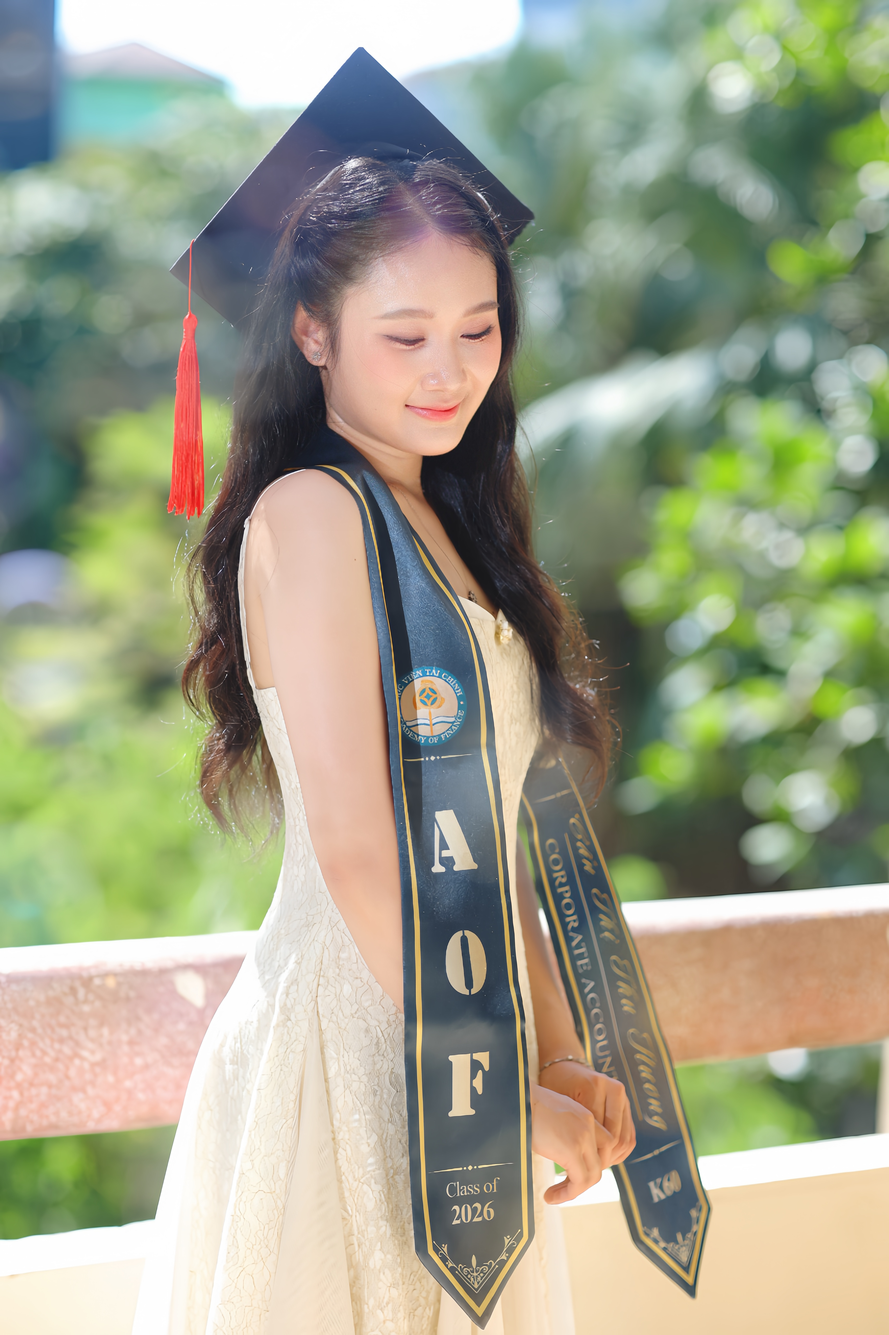
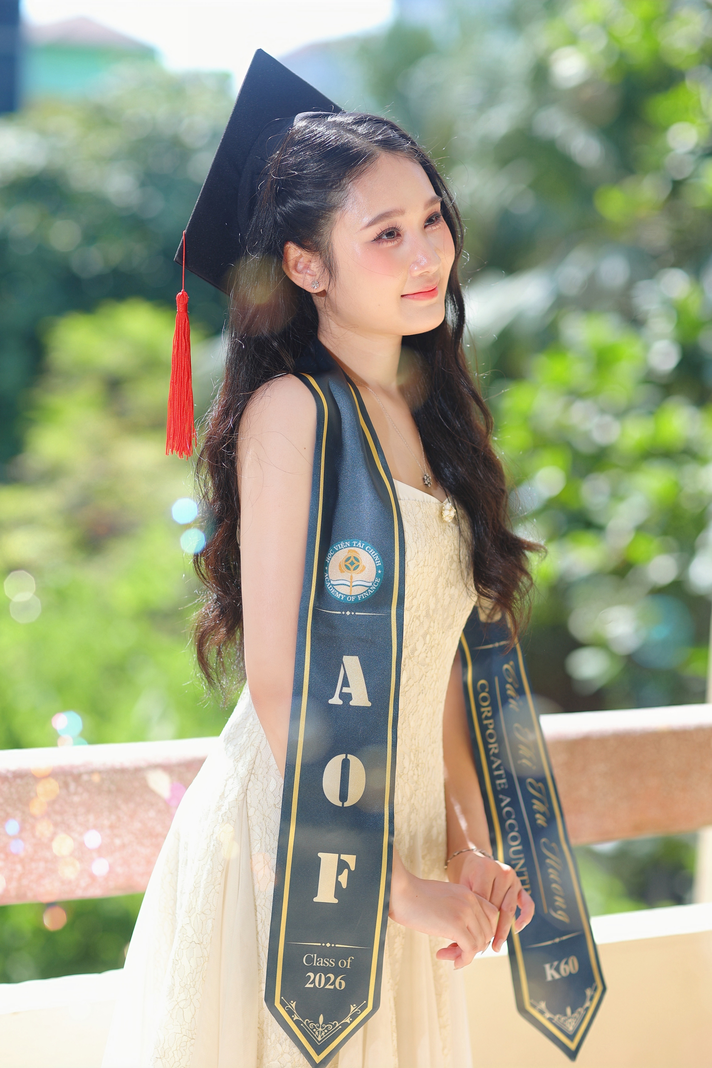
update

diff --git a/src/views/sections/InfoSection.jsx b/src/views/sections/InfoSection.jsx
@@ -122,10 +122,10 @@ const InfoSection = () => {
         />
       </div>
 
-      <div className="relative z-10 px-6 py-12">
+      <div className="relative z-10 py-12" style={{ paddingLeft: '10px', paddingRight: '10px' }}>
 
         {/* Tiêu đề section */}
-        <motion.div className="text-center mb-8" {...fadeUp(0)}>
+        <motion.div className="text-center mb-8 mt-[5px]" {...fadeUp(0)}>
           <p
             className="text-xs font-semibold tracking-[0.35em] uppercase mb-2"
             style={{ color: 'rgba(201,168,76,0.75)', fontFamily: 'var(--font-body)' }}
@@ -147,7 +147,7 @@ const InfoSection = () => {
 
         {/* ===== LỊCH THÁNG ===== */}
         <motion.div
-          className="mb-8 px-2"
+          className="mb-8"
           {...fadeUp(0.1)}
         >
           {/* Card khung lịch */}

diff --git a/src/index.css b/src/index.css
@@ -474,6 +474,7 @@ body {
   font-weight: 700;
   font-size: 0.9rem;
   box-shadow: 0 0 0 3px rgba(201,168,76,0.35);
+  transform: scale(0.85);
 }
 .cal-cell--empty {
   color: transparent;
